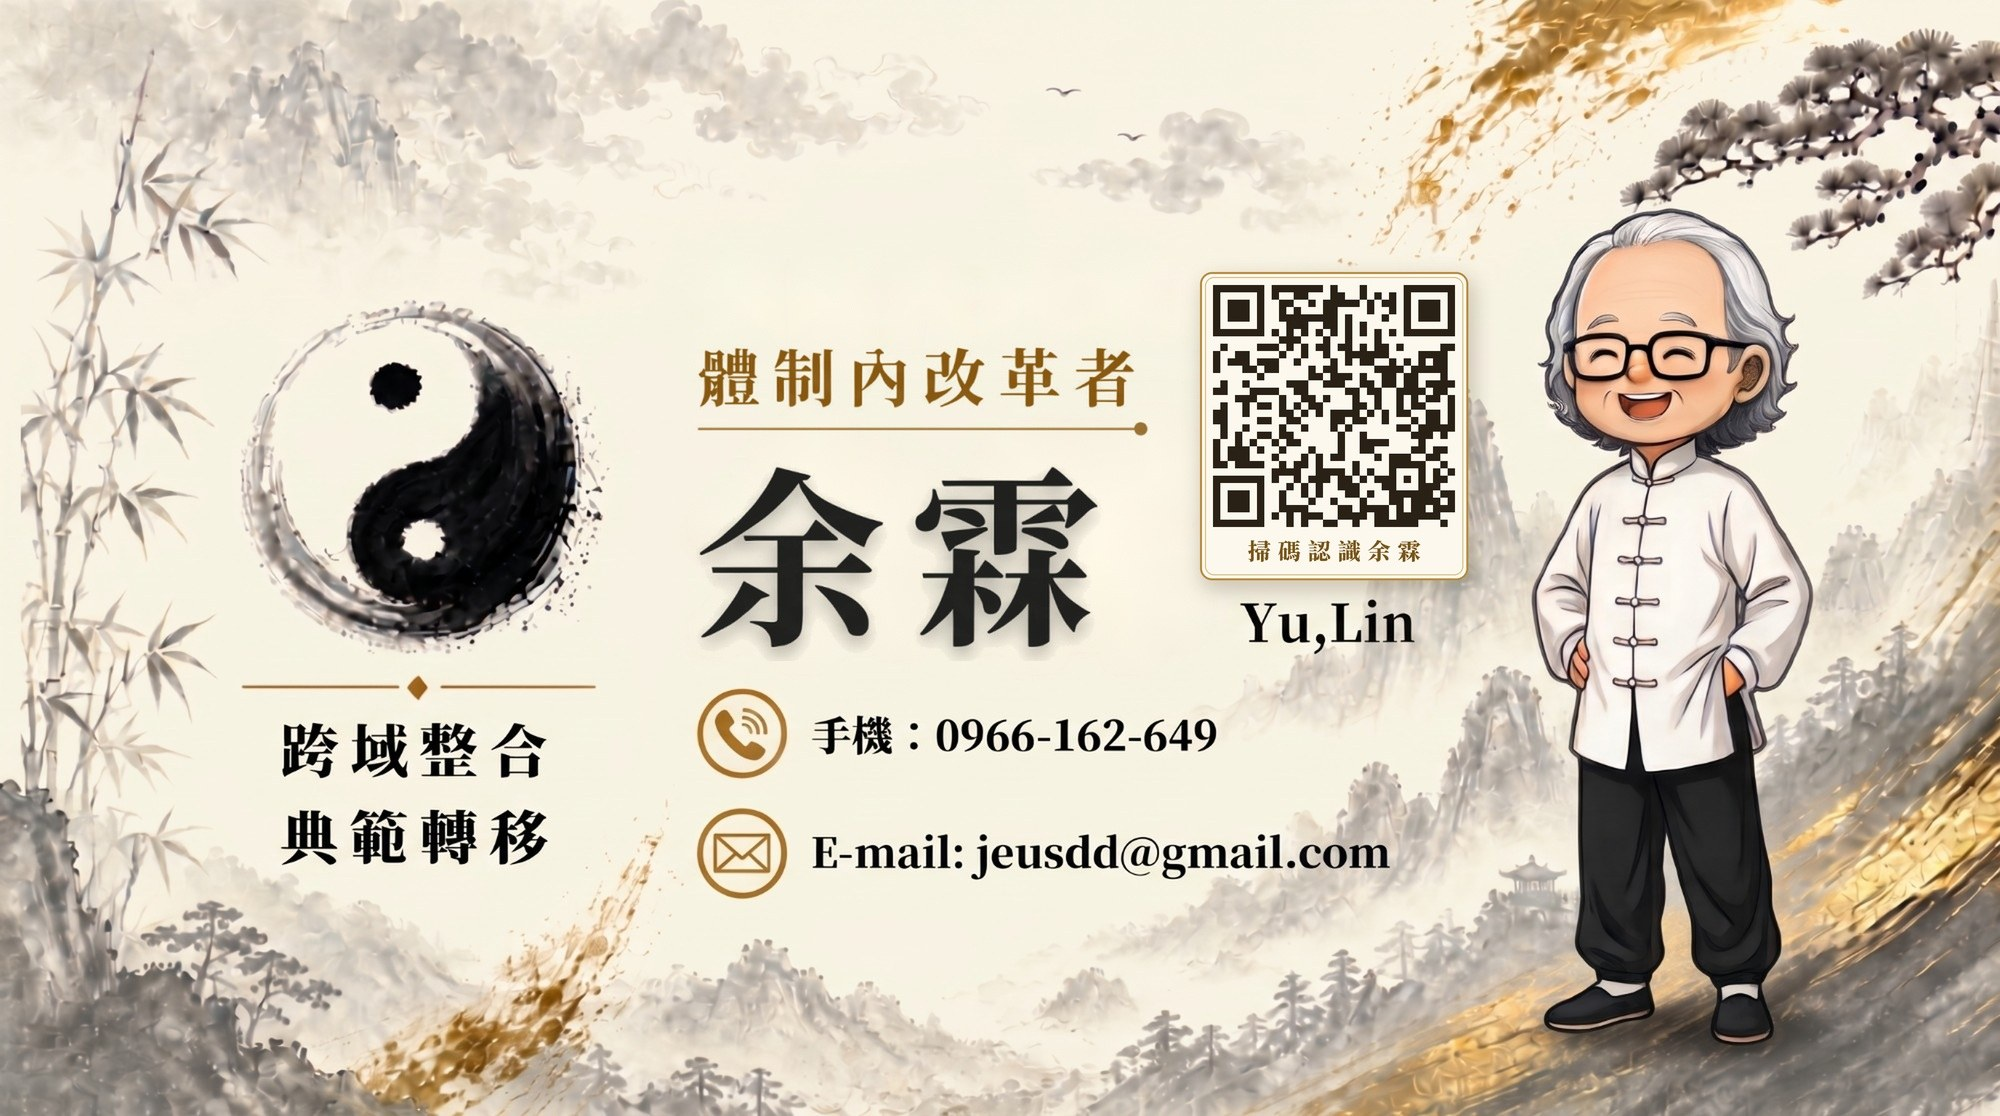
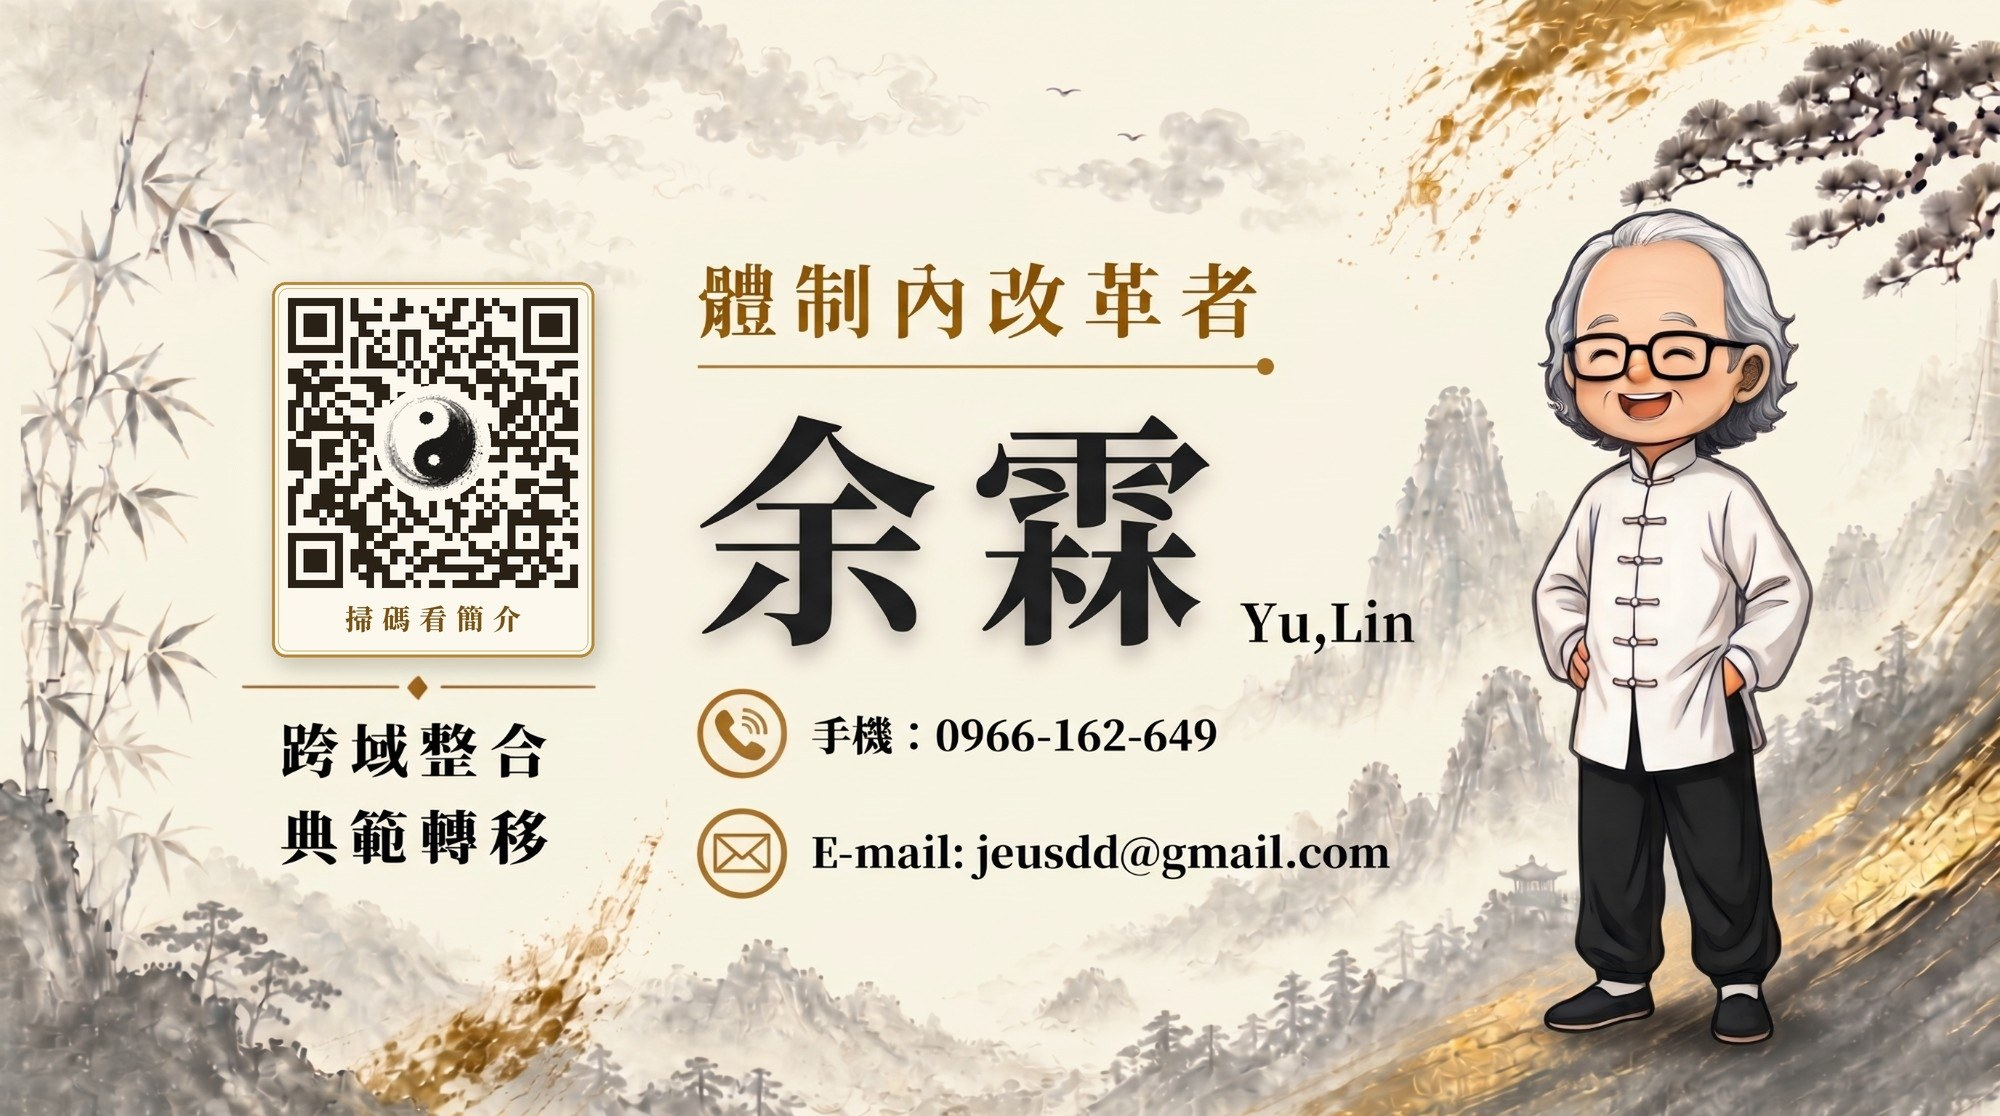
名片改方案A：QR置於太極位置、太極放大為中心標誌；手機短尾行自動縮字併行

Changed region(s): [[0.341, 0.2133, 0.744, 0.6093], [0.124, 0.2437, 0.31, 0.6093]]

diff --git a/index.html b/index.html
@@ -164,7 +164,7 @@ section.block{padding:clamp(64px,10vw,110px) 0 0}
 @keyframes fade{from{opacity:0;transform:translateY(8px)}to{opacity:1;transform:none}}
 .domain-intro{display:flex;gap:18px;align-items:center;margin-bottom:6px}
 .domain-intro .big{font-size:clamp(27px,3.4vw,33px);font-weight:900;letter-spacing:.08em}
-.domain-desc{position:relative;margin:6px 0 14px;padding:14px 18px 14px 22px;font-size:19px;font-weight:900;line-height:1.7;letter-spacing:.03em;color:#5a3c0a;background:linear-gradient(90deg,rgba(226,190,110,.38),rgba(226,190,110,.08));border-left:6px solid var(--gold);border-radius:0 6px 6px 0}
+.domain-desc{text-wrap:balance;position:relative;margin:6px 0 14px;padding:14px 18px 14px 22px;font-size:19px;font-weight:900;line-height:1.7;letter-spacing:.03em;color:#5a3c0a;background:linear-gradient(90deg,rgba(226,190,110,.38),rgba(226,190,110,.08));border-left:6px solid var(--gold);border-radius:0 6px 6px 0}
 .items{list-style:none}
 .items li{display:grid;grid-template-columns:1fr auto;gap:6px 18px;align-items:baseline;padding:16px 2px;border-bottom:1px solid var(--line)}
 .items .it{font-size:20px;font-weight:500;letter-spacing:.02em;line-height:1.65}
@@ -222,6 +222,7 @@ footer{margin-top:clamp(80px,12vw,130px);padding:clamp(56px,8vw,90px) 0 64px;bor
   .foot-actions{gap:8px}
   .foot-actions .btn{flex:1;min-width:0;padding:12px 4px;font-size:16px;letter-spacing:.04em}
   .items .it{font-size:18px}
+  .domain-desc{font-size:17px;padding:12px 12px 12px 16px}
   .items .rd{display:none!important}
   .items .rm{display:inline;color:var(--gold-deep);font-size:17px;font-weight:900;margin-right:12px}
   .ti .t,.ti.key .t{font-size:16.5px;letter-spacing:0}
@@ -511,6 +512,22 @@ $('#domainTabs').addEventListener('click',e=>{
   document.querySelectorAll('.domain').forEach((p,i)=>p.classList.toggle('on',i==b.dataset.i));
 });
 document.querySelectorAll('[data-brush]').forEach(makeBrush);
+
+/* 手機防孤字：會斷成兩行的短句，縮小字體併回一行 */
+function lineCount(el){const r=document.createRange();r.selectNodeContents(el);const tops=new Set();[...r.getClientRects()].forEach(c=>{if(c.width>1)tops.add(Math.round(c.top/4))});return tops.size||1;}
+function lastLineLen(el){const r=document.createRange();r.selectNodeContents(el);const rs=[...r.getClientRects()].filter(c=>c.width>1);if(!rs.length)return 99;const maxTop=Math.max(...rs.map(c=>c.top));const fs=parseFloat(getComputedStyle(el).fontSize);return rs.filter(c=>Math.abs(c.top-maxTop)<4).reduce((a,c)=>a+c.width,0)/fs;}
+function fit(el){
+  el.style.fontSize='';
+  if(lineCount(el)<2) return;
+  const base=parseFloat(getComputedStyle(el).fontSize); let fs=base;
+  while(fs>14.5 && lineCount(el)>1){ fs-=.5; el.style.fontSize=fs+'px'; }
+  if(lineCount(el)>1){ el.style.fontSize=''; }   // 縮到最小仍放不下：維持原大小，讓它在詞組間換行
+}
+const FIT_SEL='.domain.on .domain-desc,.domain.on .items .it,.ti .t,.ec span,.ec b,.cur .org,.honours .h-t .kw,.awards span';
+function fitAll(){ document.querySelectorAll(FIT_SEL).forEach(fit); }
+addEventListener('load',fitAll); document.fonts&&document.fonts.ready.then(fitAll);
+let rz; addEventListener('resize',()=>{clearTimeout(rz);rz=setTimeout(fitAll,150)});
+document.getElementById('domainTabs').addEventListener('click',()=>requestAnimationFrame(fitAll));
 
 /* 進場動畫 */
 const io=new IntersectionObserver(es=>es.forEach(e=>{ if(e.isIntersecting){ e.target.classList.add('in'); io.unobserve(e.target);} }),{threshold:.08});
